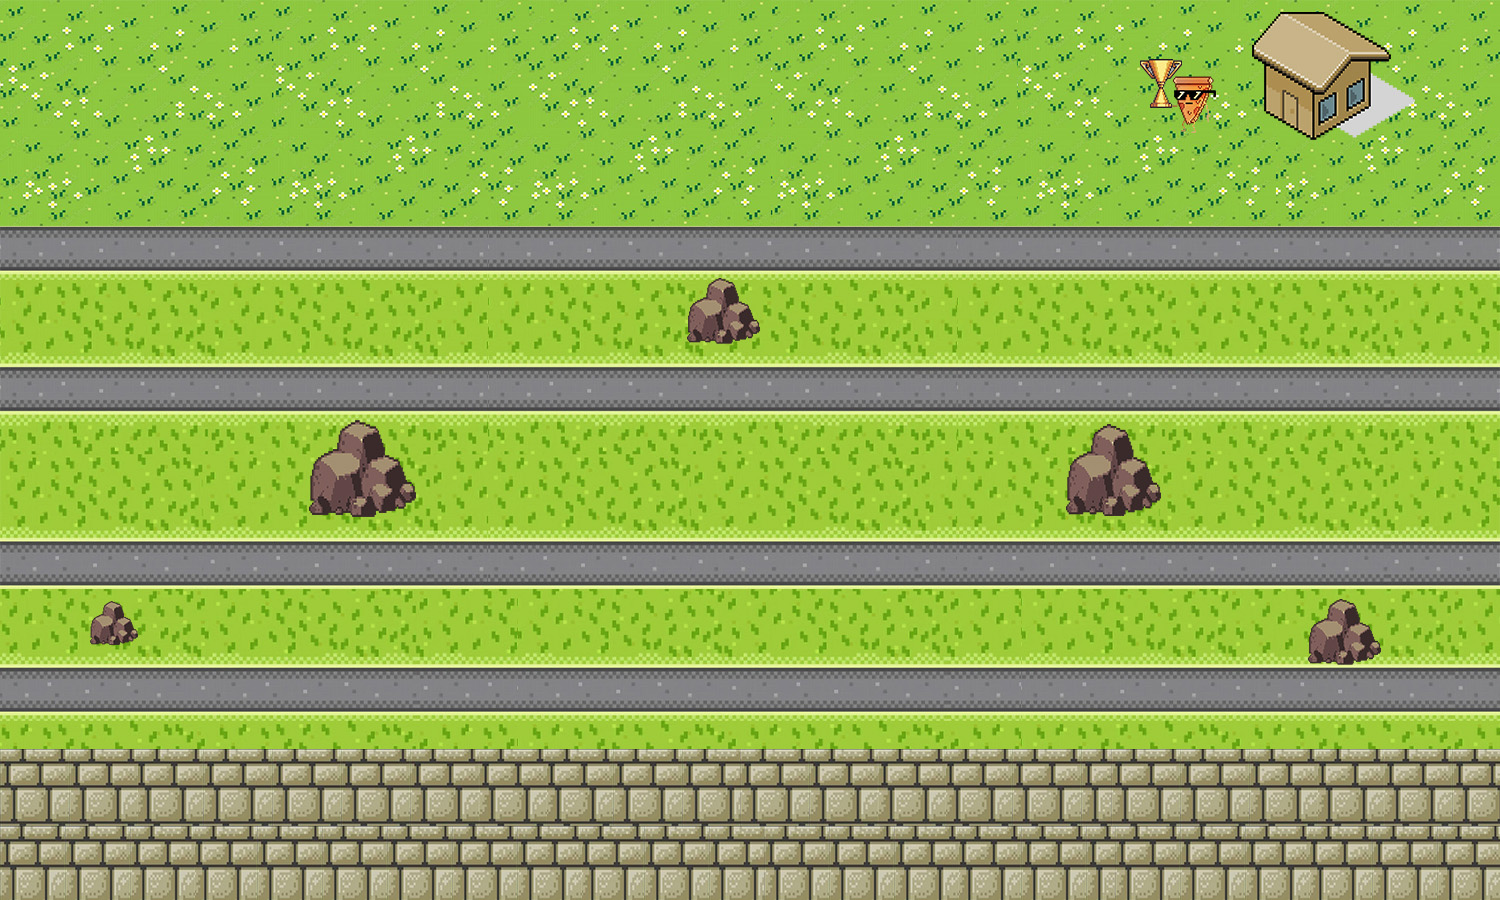
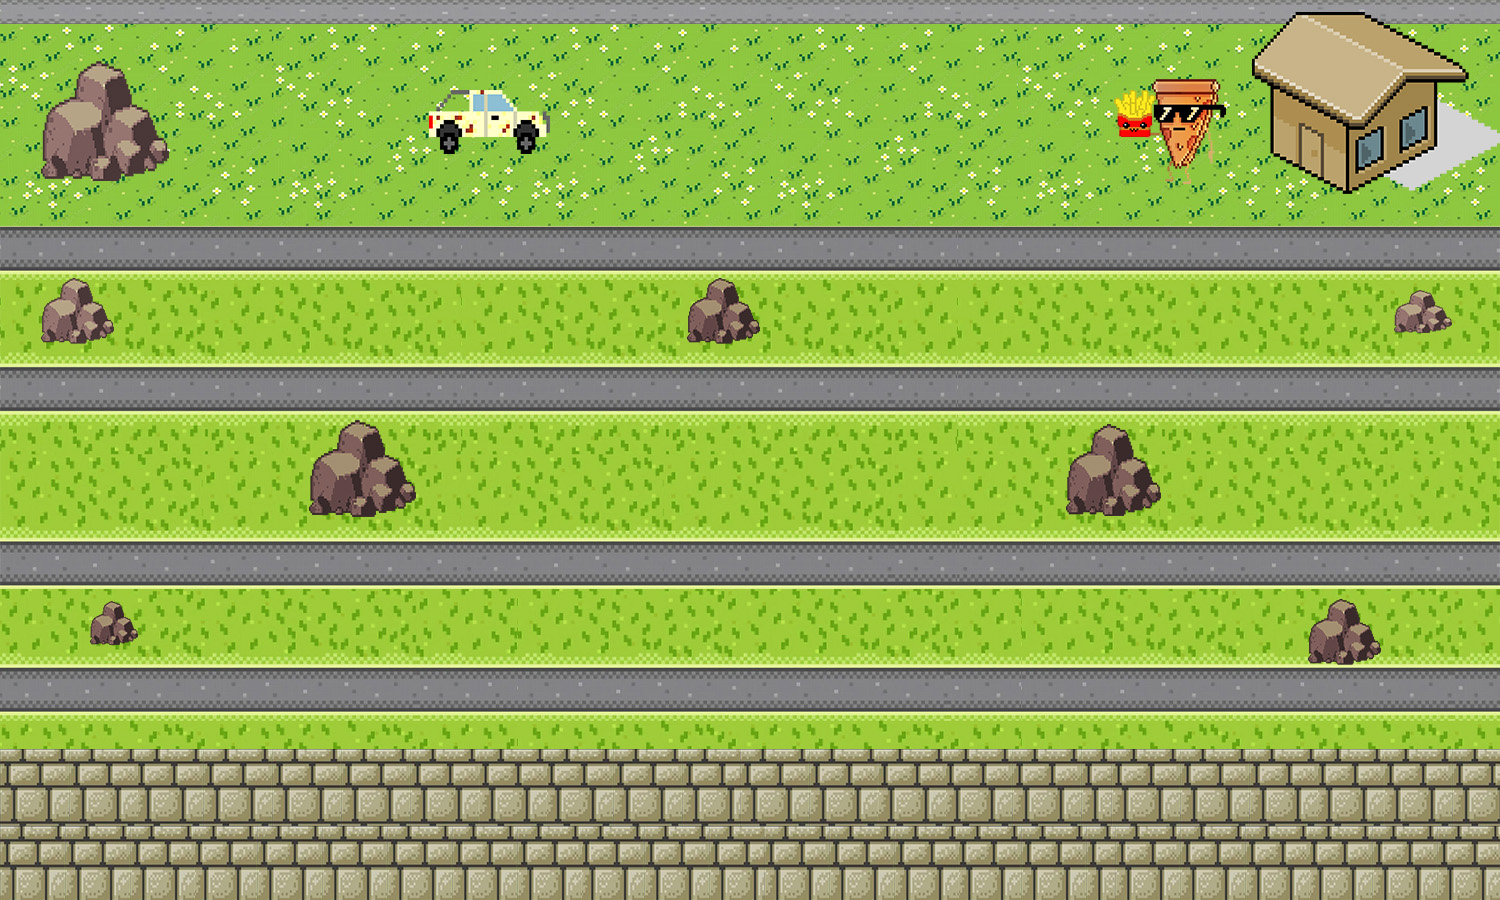
Últimos ajustes de niveles, y cambios.

diff --git a/Dino road.html b/Dino road.html
@@ -90,7 +90,7 @@
     <div id="nivel"> nivel: 1</div>
     <div id="contador">Llaves: 0 <br> <br> </div>
     <div id="controles">Controles: <br> <br> W - Arriba <br> <br> S - Abajo <br> <br> A - Izquierda <br> <br> D -
-        Derecha <br><br> P - Pausa</div>
+        Derecha <br><br> P - Pausa <br><br> M - Musica</div>
     <div id="timerDisplay">Tiempo: 00:00</div>
     <div id="pauseOverlay">Juego pausado.</div>
     <div id="gameOverOverlay">¡Chale, perdiste! <br> Llaves recogidas: 0 <br> Presiona R para reiniciar.</div>
@@ -107,7 +107,6 @@
         fondo.src = "fondo.jpg";
         const gameOverOverlay = document.getElementById("gameOverOverlay");
 
-
         const imagenes = {
             arriba: "DinoArriba.png",
             abajo: "DinoAbajo.png",
@@ -117,7 +116,6 @@
 
         let imagenActual = new Image();
         imagenActual.src = imagenes.abajo;
-
         let time = 0;
         let tiempoTranscurrido = 0;
         let intervalID;
@@ -128,22 +126,20 @@
         let puntos = 0;
         let pause = false;
         let gameOver = false;
-        let nivel = 1; 
-        const incrementoVelocidad = 2; 
-
-
+        let nivel = 1;
+        const incrementoVelocidad = 2;
         const autoVelocidades = [10, 10, 10, 10];
         let autos = [];
-
         const llaveImg = new Image();
         llaveImg.src = "llave.png";
         let objetivoX = 300;
         let objetivoY = 300;
-
+        const autoImg = new Image();
+        autoImg.src = "auto1.png";
 
         const muros = [
             { x: 1, y: 1, width: 15001, height: 5 },
-            { x: 43, y: 60, width:120, height: 120 },
+            { x: 43, y: 60, width: 120, height: 120 },
             { x: 40, y: 280, width: 75, height: 65 },
             { x: 685, y: 280, width: 75, height: 65 },
             { x: 1395, y: 290, width: 60, height: 40 },
@@ -183,11 +179,6 @@
             ];
         }
 
-        const autoImg = new Image();
-        autoImg.src = "auto1.png";
-
-
-
         function moverAutos() {
             autos.forEach(auto => {
                 auto.x += auto.speed;
@@ -210,7 +201,7 @@
                 gameOver = true;
                 musica.pause();
                 gameOverOverlay.style.display = "flex";
-                gameOverOverlay.innerHTML = "¡Chale, perdiste! <br> Llaves recogidas: " + puntos + "<br>  Reinicia para volver a jugar";
+                gameOverOverlay.innerHTML = "¡Chale, perdiste! <br> Llaves recogidas: " + puntos + "<br> Nivel alcanzado: "+ nivel +"<br>  Reinicia para volver a jugar";
                 stopTimer();
                 return true;
             }
@@ -226,16 +217,16 @@
             );
         }
 
-function obtenerPosicionAleatoria() {
-    let pos;
-    do {
-        pos = {
-            x: Math.random() * (canvas.width - 20),
-            y: Math.random() * (canvas.height - 20)
-        };
-    } while (detectarColisionConAutos(pos.x, pos.y, 15, 15) || detectarColisionConMuros(pos.x, pos.y, 30, 30)); 
-    return pos;
-}
+        function obtenerPosicionAleatoria() {
+            let pos;
+            do {
+                pos = {
+                    x: Math.random() * (canvas.width - 20),
+                    y: Math.random() * (canvas.height - 20)
+                };
+            } while (detectarColisionConAutos(pos.x, pos.y, 15, 15) || detectarColisionConMuros(pos.x, pos.y, 30, 30));
+            return pos;
+        }
 
         function detectarColisionConObjetivo() {
             if (
@@ -244,14 +235,17 @@ function obtenerPosicionAleatoria() {
                 posY < objetivoY + 30 &&
                 posY + 50 > objetivoY
             ) {
-                puntos = puntos + 5;
+                puntos = puntos + 1;
                 contadorDiv.textContent = "Llaves: " + puntos;
-                if (puntos === 5 || puntos === 10 || puntos === 15 || puntos ===20 || puntos ===25|| puntos === 30 || puntos ===35|| puntos ===40 || puntos ===45|| puntos ===50) {
-                    muros.splice(0, 1); 
+                if (puntos % 5 === 0) {
+                    muros.splice(0, 1);
                 }
-                let nuevaPos = obtenerPosicionAleatoria();
-                objetivoX = nuevaPos.x;
-                objetivoY = nuevaPos.y;
+
+                if (puntos <= 5) {
+                    let nuevaPos = obtenerPosicionAleatoria();
+                    objetivoX = nuevaPos.x;
+                    objetivoY = nuevaPos.y;
+                }
             }
         }
 
@@ -283,8 +277,8 @@ function obtenerPosicionAleatoria() {
                     case "arriba":
                         nuevaPosY -= velocidad;
                         if (nuevaPosY < 0) {
-                            nuevaPosY = canvas.height; 
-                            nivel++; 
+                            nuevaPosY = canvas.height;
+                            nivel++;
                             document.getElementById("nivel").textContent = "Nivel: " + nivel;
                             autos.forEach(auto => {
                                 auto.speed += incrementoVelocidad;
@@ -292,6 +286,10 @@ function obtenerPosicionAleatoria() {
 
                             if (!muros.some(muro => muro.y === 1)) {
                                 muros.unshift({ x: 1, y: 1, width: 15001, height: 10 });
+                                puntos = 0;
+                                let contadorDiv = document.getElementById("contador");
+                                contadorDiv.textContent = "Llaves: " + puntos;
+                                contexto.drawImage(llaveImg, objetivoX, objetivoY, 30, 30);
                             }
                         }
                         break;
@@ -342,11 +340,16 @@ function obtenerPosicionAleatoria() {
             autos.forEach(auto => {
                 contexto.drawImage(autoImg, auto.x, auto.y, auto.width, auto.height);
             });
-            contexto.drawImage(llaveImg, objetivoX, objetivoY, 30, 30);
-            contexto.fillStyle = 'rgba(0, 0, 0, 0.5)'; 
-            muros.forEach(muro => {
-                contexto.fillRect(muro.x, muro.y, muro.width, muro.height);
-            });
+            if (puntos < 5) {
+                contexto.drawImage(llaveImg, objetivoX, objetivoY, 30, 30);
+            }
+
+            contexto.fillStyle = 'rgba(0, 0, 0, 0.5)';
+            // Mostrar solo el primer muro
+            if (muros.length > 0) {
+                const primerMuro = muros[0];
+                contexto.fillRect(primerMuro.x, primerMuro.y, primerMuro.width, primerMuro.height);
+            }
         }
 
         function detenerJuego() {
@@ -406,7 +409,9 @@ function obtenerPosicionAleatoria() {
                 case "p":
                     controlPause();
                     break;
-
+                case "m":
+                    musica.play();
+                    break;
             }
         });
 
